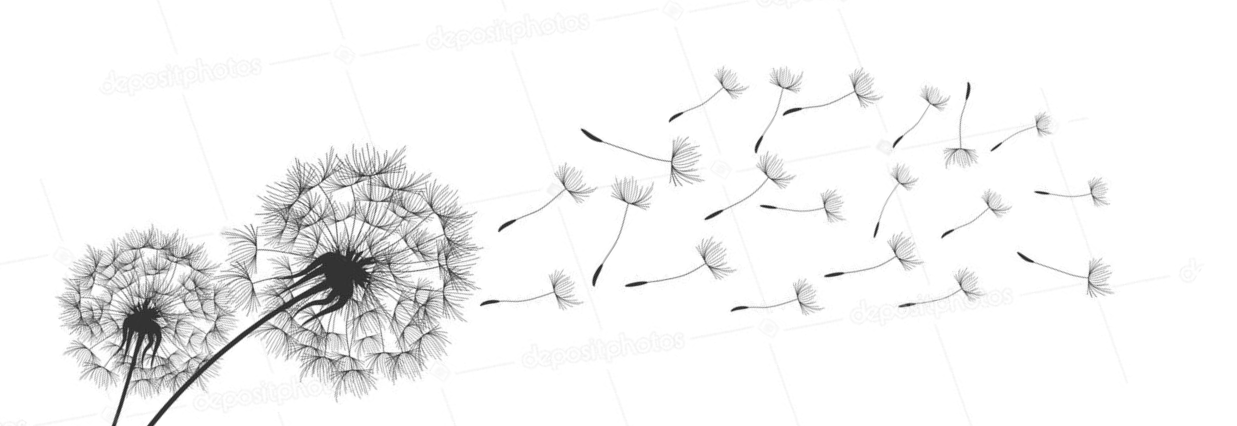
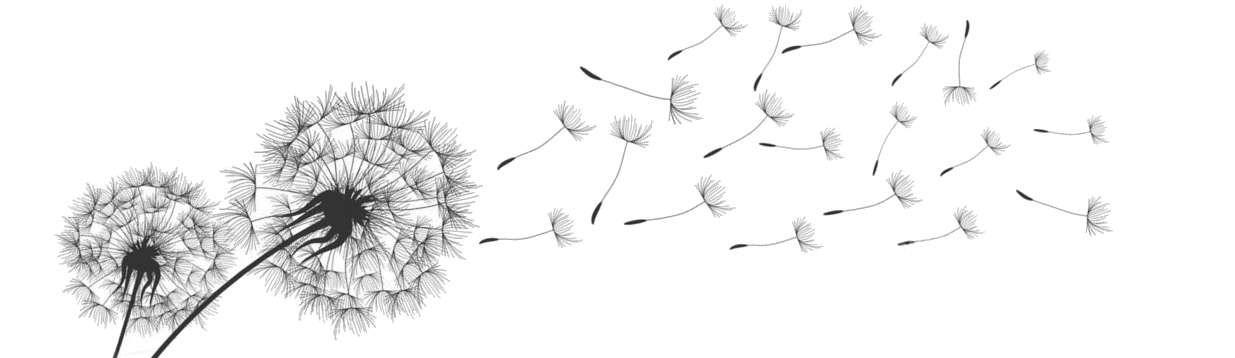
ddd

diff --git a/research/index.html b/research/index.html
@@ -124,7 +124,7 @@
 					hand, how stochasticity affects the evolution of individual traits and the shape of communities.
 				</p>
 				<h3>Characterisation of bacterial communities</h3>
-				<img style="background: #f4f4f4;" src="https://lorenzofant.github.io/images/bacteria_a-min.png">
+				<img style="background: #f4f4f4;" src="https://lorenzofant.github.io/images/bacteria_a.jpg">
 				<p>
 					Even though communities are extremely complex objects with hundreds of species interchanging
 					across samples, experimental data show the existence of fundamental quantities, constant across
